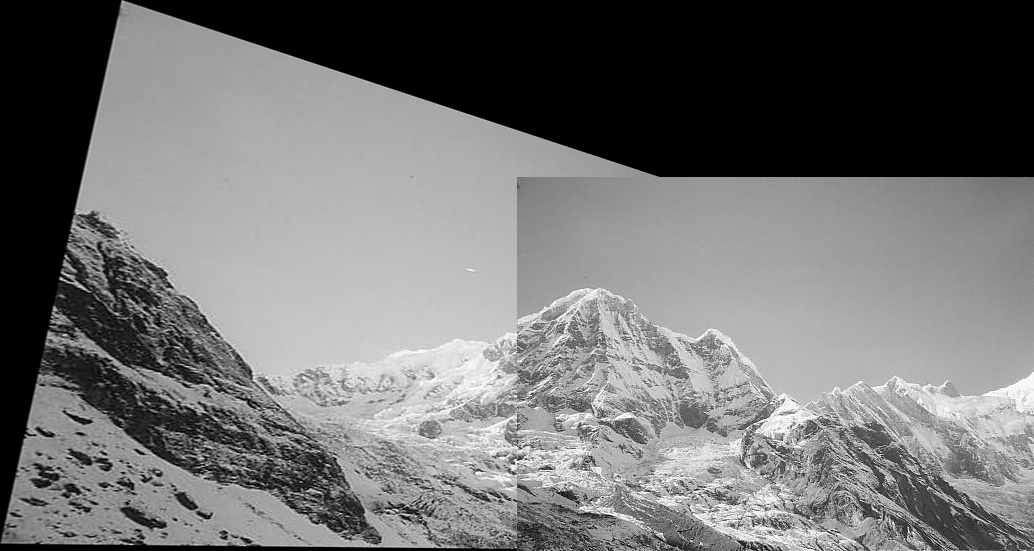
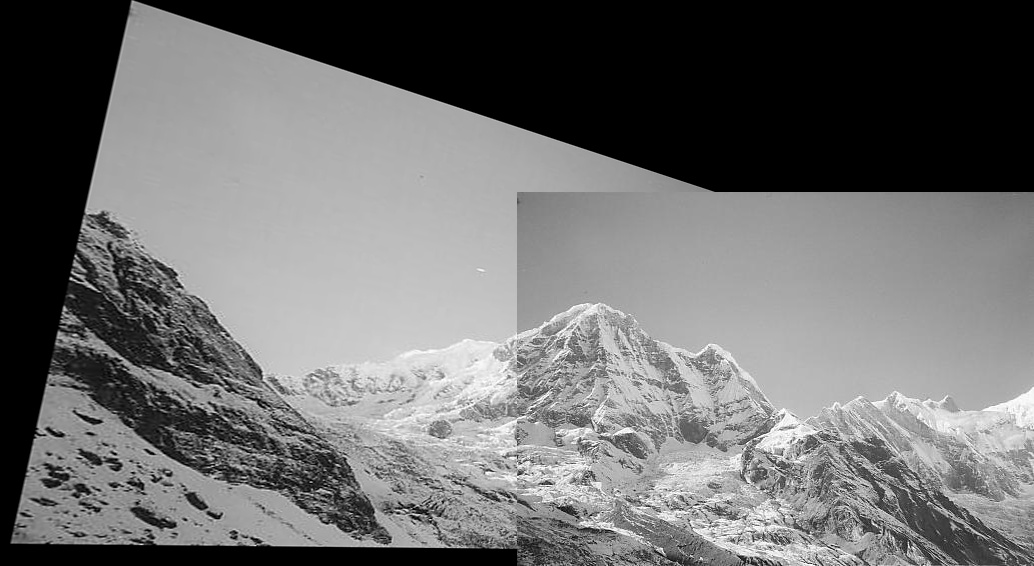
added find cluster
Also corrected panorama code. Added some padding to make the image more properly aligned

diff --git a/Project 2/Task 3/functions.py b/Project 2/Task 3/functions.py
@@ -79,16 +79,29 @@ def plotClusters(X,clusterCenters,XClassified,fineName):
     plt.savefig(fineName)
     plt.clf()
 
-def calculateColorDistance(clusterCenters,image,colorDistance):
-    XDistanceTemp = []
+def calculateColorDistance(noOfClusters,image,clusterCenters):
+    colorDistance = np.zeros((noOfClusters, image.shape[0]))
     print("in function")
-    for imgX in range(image.shape[0]-262143):
+    for imgX in range(image.shape[0]):
         x = image[imgX]
-        for centers in range(len(clusterCenters)):
+        for centers in range(noOfClusters):
             y = clusterCenters[centers]
-            print(x,y)
-            print(np.linalg.norm(x-y))
-            # colorDistance.append(XDistanceTemp)
-            # colorDistance[imgX,imgY] = XDistanceTemp
+            distance = np.linalg.norm(x-y)
+            colorDistance[centers][imgX] = distance
     return colorDistance
+
+def findCluster(colorDistance,ptsClassified,noOfClusters):
+    colorDistancecolumns = []
+    for imgX in range(colorDistance.shape[1]):
+        for centers in range(noOfClusters):
+            colorDistancecolumns.append(colorDistance[centers][imgX])
+
+        minValIndexLoc = colorDistancecolumns.index(min(colorDistancecolumns))
+
+        ptsClassified[minValIndexLoc][imgX] = 1
+        colorDistancecolumns = []
+    return ptsClassified
+
+
+
 

diff --git a/Project 2/Task 1/imgFeaturesHomography.py b/Project 2/Task 1/imgFeaturesHomography.py
@@ -47,7 +47,7 @@ matchedMask2 = matchedMask2.tolist()
 count = 0
 print("started random")
 while count <= 10:
-    index = random.randint(0, len(matchedMask))
+    index = random.randint(0, len(matchedMask)-1)
     if matchedMask[index] == 1:
         matchedMask2[index] = 1
         count += 1
@@ -76,7 +76,6 @@ endPoints = np.array([
 corners = cv2.perspectiveTransform(np.float32([endPoints]), homographyMatrix)
 # Find the bounding rectangle
 x, y, boundedWidth, boundedHeight = cv2.boundingRect(corners)
-
 # Translating -ve points which are causing loss of pixels into +Ve points
 intermediateTransformationMatrix = np.array([
   [ 1, 0, -x ],
@@ -94,6 +93,9 @@ print("\n New Homography matrix H is: \n",homographyMatrix)
 
 result1 = cv2.warpPerspective(image1G, homographyMatrix, (boundedWidth, boundedHeight), flags=cv2.INTER_CUBIC)
 
+result1 = cv2.copyMakeBorder(result1,0,15,10,0,cv2.BORDER_CONSTANT)
+cv2.imwrite("image1wrap.jpg",result1)
+boundedHeight, boundedWidth = result1.shape
 #  Creating a blank image
 result = np.zeros((max(boundedHeight, height2), width2+width2), dtype=np.uint8)
 

diff --git a/Project 2/Task 3/kMeansFull.py b/Project 2/Task 3/kMeansFull.py
@@ -1,5 +1,5 @@
 import numpy as np
-from functions import calculateColorDistance
+from functions import calculateColorDistance,findCluster
 import matplotlib.pyplot  as plt
 import cv2
 import random
@@ -19,5 +19,11 @@ for times in range(noOfClusters):
 clusterCenters = np.array(clusterCenters)
 print(clusterCenters)
 image = image.reshape((image.shape[0] * image.shape[1], 3))
-print(image.shape)
-colorDistance = calculateColorDistance(clusterCenters, image, clusterCenters)
+print(type(image))
+colorDistance = calculateColorDistance(noOfClusters, image, clusterCenters)
+
+ptsClassified = np.zeros((noOfClusters, image.shape[0]))
+ptsClassified = findCluster(colorDistance,ptsClassified,noOfClusters)
+
+print(ptsClassified)
+
